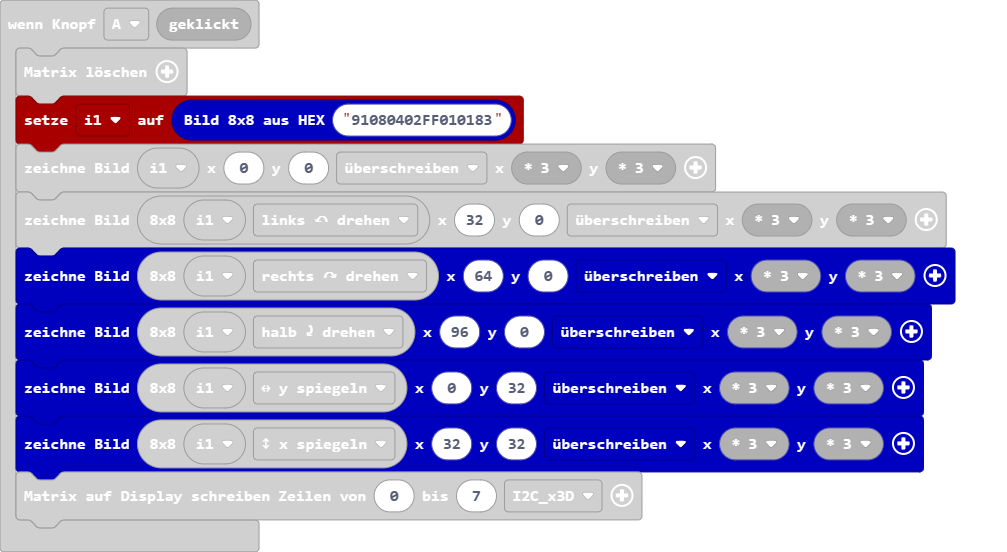
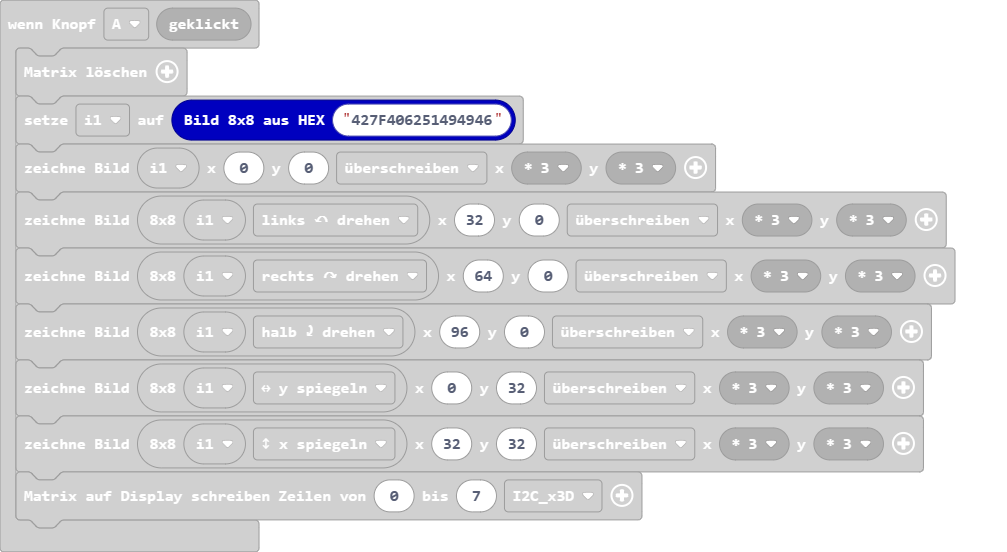
Aktualisiere main.blocks, main.ts

Changed region(s): [[0.0, 0.4312, 0.9543, 0.8931], [0.0, 0.154, 0.5233, 0.2772]]

diff --git a/main.ts b/main.ts
@@ -8,7 +8,7 @@ input.onButtonEvent(Button.AB, ButtonEvent.Click, function () {
 })
 input.onButtonEvent(Button.A, input.buttonEventClick(), function () {
     matrix.clearMatrix()
-    i1 = matrix.hexImage8x8("91080402FF010183")
+    i1 = matrix.hexImage8x8("427F406251494946")
     matrix.writeImage(i1, 0, 0, matrix.eTransparent.u, matrix.oled_eFaktor(matrix.eFaktor.f3))
     matrix.writeImage(matrix.imageDrehen(i1, matrix.eZeichenDrehen.links), 32, 0, matrix.eTransparent.u, matrix.oled_eFaktor(matrix.eFaktor.f3), matrix.oled_eFaktor(matrix.eFaktor.f3))
     matrix.writeImage(matrix.imageDrehen(i1, matrix.eZeichenDrehen.rechts), 64, 0, matrix.eTransparent.u, matrix.oled_eFaktor(matrix.eFaktor.f3))
